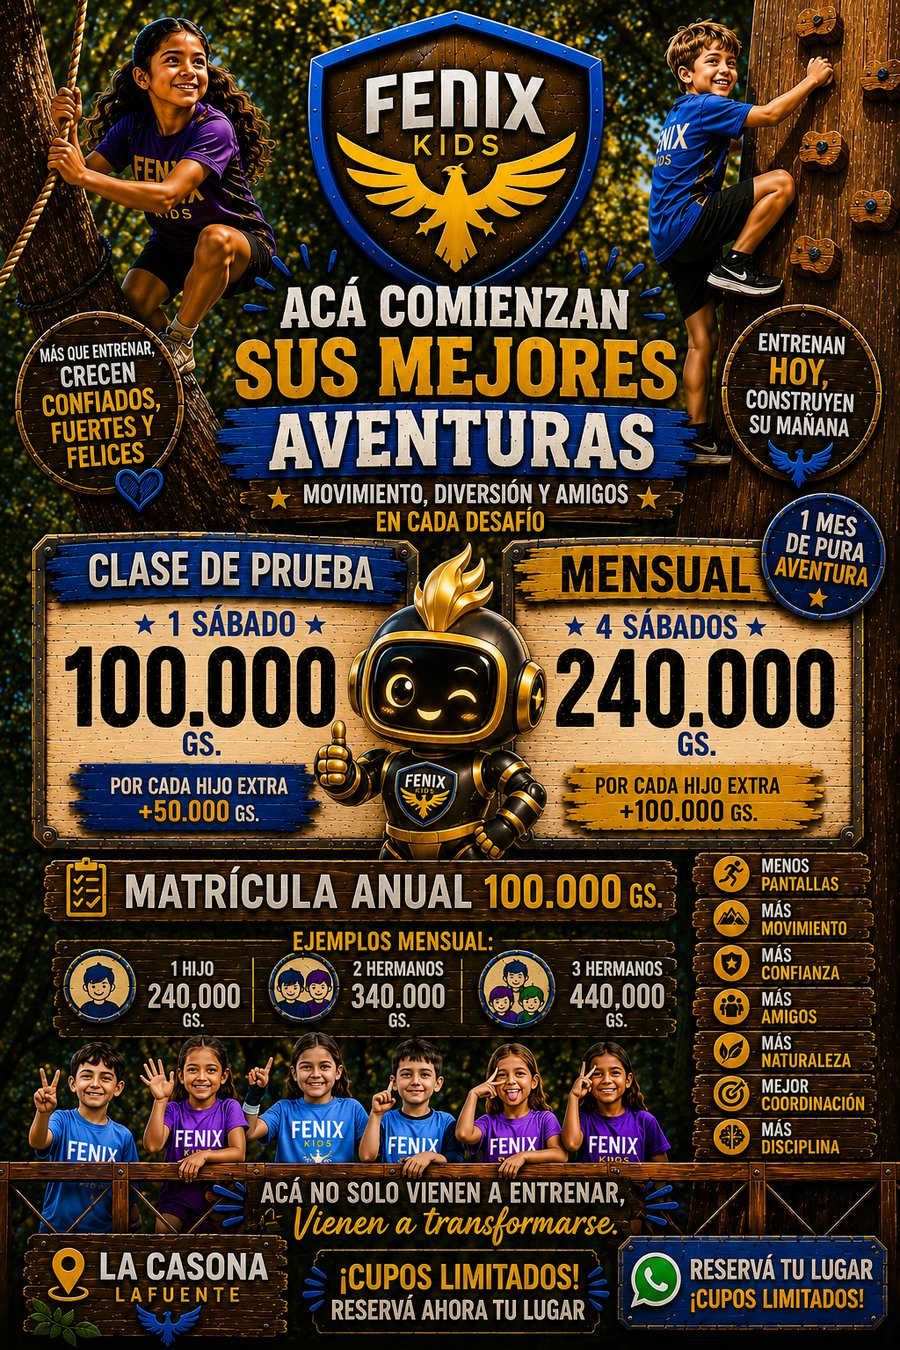
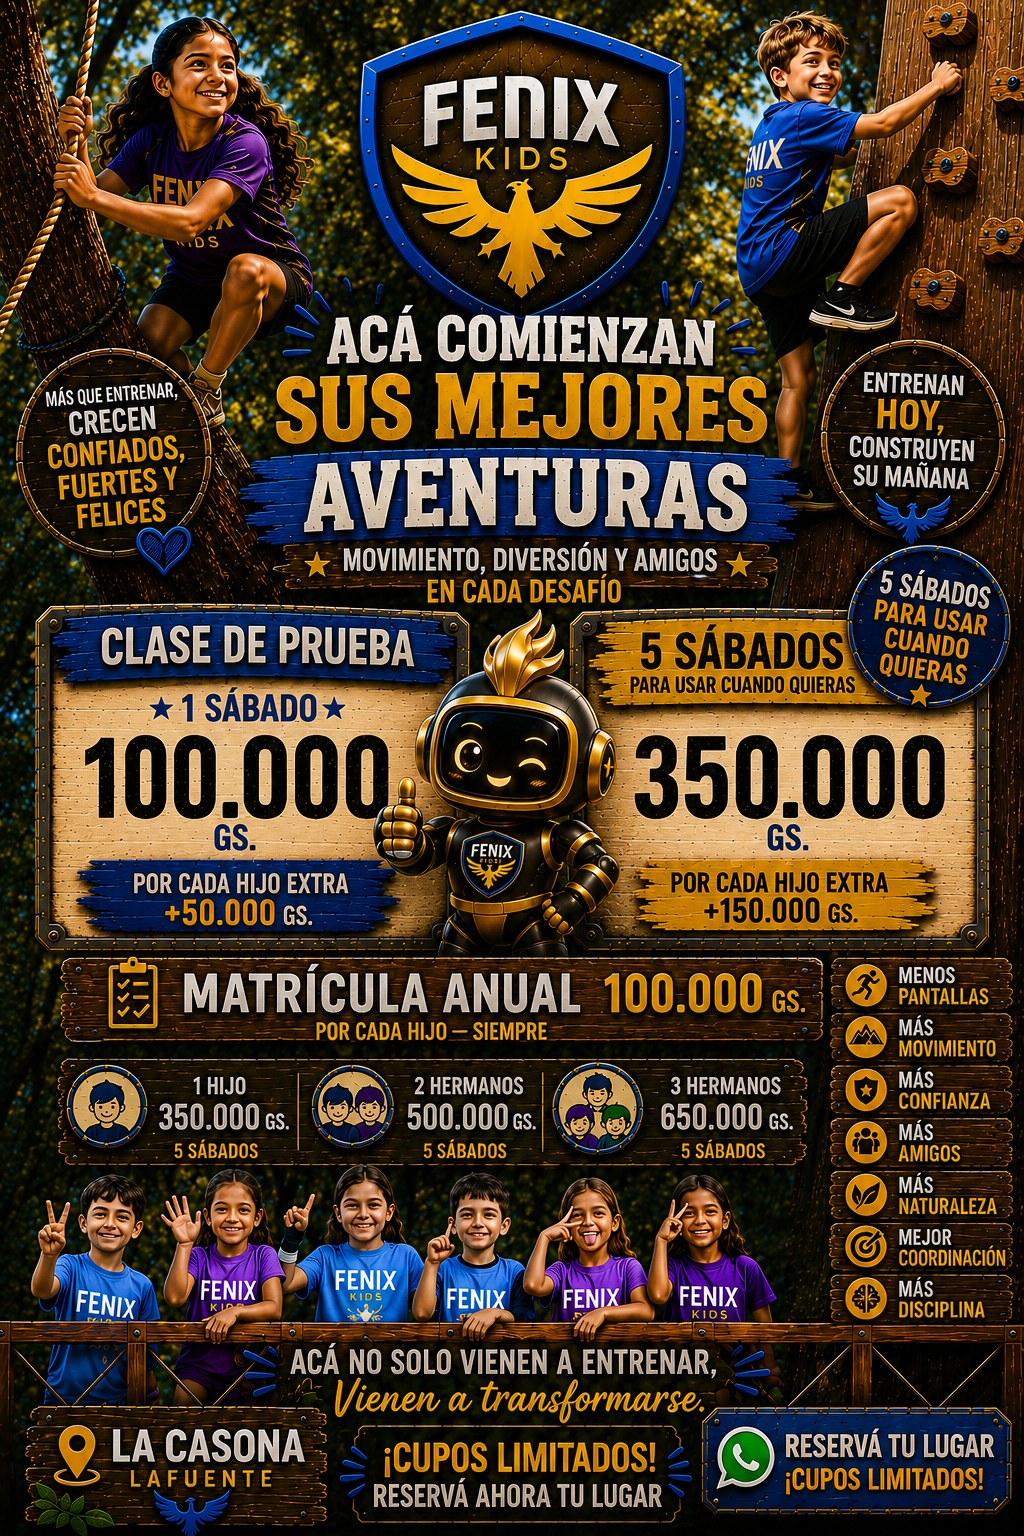
feat(precios): pack de 5 clases que no vencen (350k) reemplaza al mensual
Card y tabla de hermanos con el precio nuevo (350/500/650) + afiche
oficial actualizado. Los links de pago se refirman: la sig es HMAC del
monto, la vieja no valida con el monto nuevo.

diff --git a/index.html b/index.html
@@ -562,13 +562,13 @@
         </div>
         <div class="plan featured reveal">
           <div class="tag">★ Más elegido</div>
-          <div class="pname">🗓 Plan mensual</div>
-          <div class="psub">4 sábados</div>
-          <div class="pprice">240.000 <span class="pcur">Gs</span></div>
-          <div class="punit">por mes · por niño</div>
-          <div class="pextra">+100.000 Gs por cada hijo extra</div>
+          <div class="pname">🎟 Pack 5 clases</div>
+          <div class="psub">5 sábados que NO vencen</div>
+          <div class="pprice">350.000 <span class="pcur">Gs</span></div>
+          <div class="punit">por niño · usalos cuando quieras</div>
+          <div class="pextra">+150.000 Gs por cada hijo extra</div>
           <a class="btn btn-azul" target="_blank" rel="noopener"
-             href="https://pago.ivanlafuente.com/pagar/fenix?monto=240000&amp;sig=2567a029225be754&amp;concepto=Mensualidad+%281+hijo%29">💳 Pagar con tarjeta</a>
+             href="https://pago.ivanlafuente.com/pagar/fenix?monto=350000&amp;sig=16a2dd42e09a9fdf&amp;concepto=Pack+5+clases+%281+hijo%29">💳 Pagar con tarjeta</a>
         </div>
         <div class="plan reveal">
           <div class="pname">🎽 Matrícula anual</div>
@@ -581,21 +581,21 @@
       </div>
 
       <div class="hermanos reveal">
-        <div class="h-head">🤝 Plan Hermanos — ejemplos mensuales</div>
+        <div class="h-head">🤝 Plan Hermanos — Pack 5 clases (no vencen)</div>
         <table>
           <thead>
-            <tr><th>Familia</th><th>Cuota mensual</th></tr>
+            <tr><th>Familia</th><th>Pack 5 clases c/u</th></tr>
           </thead>
           <tbody>
-            <tr><td>1 hijo</td><td class="price">240.000 Gs
+            <tr><td>1 hijo</td><td class="price">350.000 Gs
               <a class="pay-link" target="_blank" rel="noopener"
-                 href="https://pago.ivanlafuente.com/pagar/fenix?monto=240000&amp;sig=2567a029225be754&amp;concepto=Mensualidad+%281+hijo%29">💳 pagar</a></td></tr>
-            <tr><td>2 hermanos</td><td class="price">340.000 Gs
+                 href="https://pago.ivanlafuente.com/pagar/fenix?monto=350000&amp;sig=16a2dd42e09a9fdf&amp;concepto=Pack+5+clases+%281+hijo%29">💳 pagar</a></td></tr>
+            <tr><td>2 hermanos</td><td class="price">500.000 Gs
               <a class="pay-link" target="_blank" rel="noopener"
-                 href="https://pago.ivanlafuente.com/pagar/fenix?monto=340000&amp;sig=4af9c86067f0f3c0&amp;concepto=Mensualidad+%282+hermanos%29">💳 pagar</a></td></tr>
-            <tr><td>3 hermanos</td><td class="price">440.000 Gs
+                 href="https://pago.ivanlafuente.com/pagar/fenix?monto=500000&amp;sig=538add325b8178ea&amp;concepto=Pack+5+clases+%282+hermanos%29">💳 pagar</a></td></tr>
+            <tr><td>3 hermanos</td><td class="price">650.000 Gs
               <a class="pay-link" target="_blank" rel="noopener"
-                 href="https://pago.ivanlafuente.com/pagar/fenix?monto=440000&amp;sig=b9302249a71c71f3&amp;concepto=Mensualidad+%283+hermanos%29">💳 pagar</a></td></tr>
+                 href="https://pago.ivanlafuente.com/pagar/fenix?monto=650000&amp;sig=022f501baf30d82c&amp;concepto=Pack+5+clases+%283+hermanos%29">💳 pagar</a></td></tr>
           </tbody>
         </table>
       </div>
